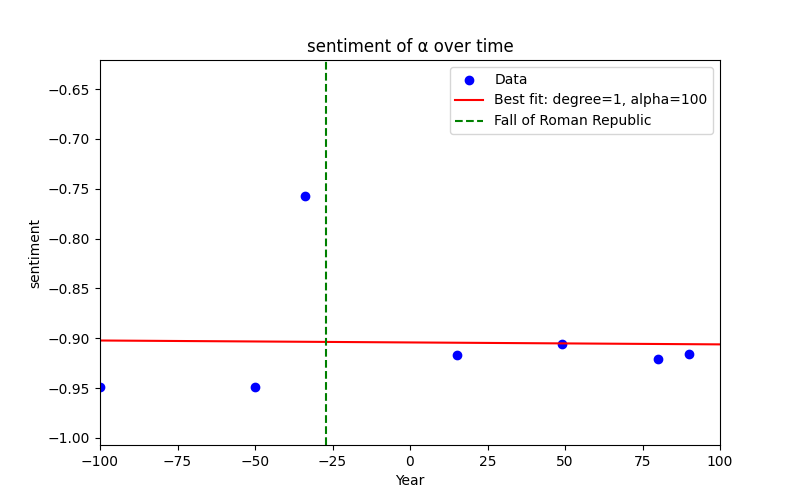
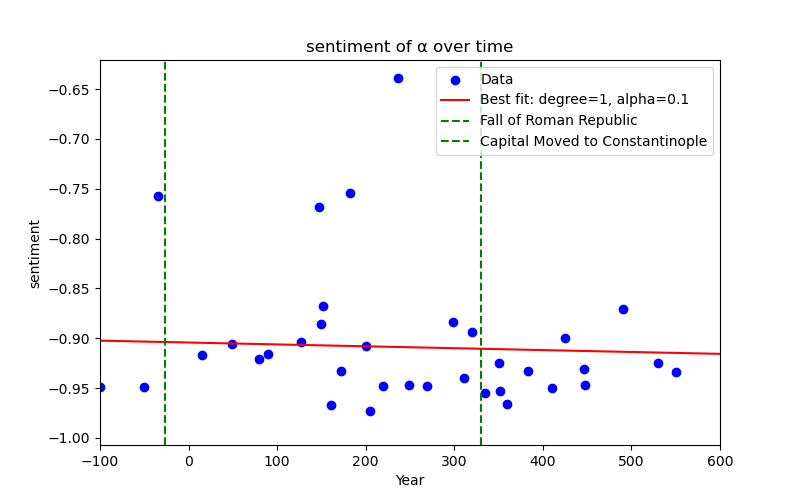
more outlier resilience

diff --git a/backend/PolyRegression.py b/backend/PolyRegression.py
@@ -3,7 +3,7 @@
 import numpy
 import matplotlib.pyplot as plt 
 from sklearn.preprocessing import PolynomialFeatures
-from sklearn.linear_model import Ridge
+from sklearn.linear_model import Lasso
 from sklearn.model_selection import GridSearchCV
 from sklearn.pipeline import Pipeline
 import pandas as pd
@@ -39,13 +39,13 @@ def line_best_fit(input, start_date, end_date, word, mode = "freqency"):
 
     pipeline = Pipeline([
         ('poly', PolynomialFeatures()),
-        ('ridge', Ridge())
+        ('lasso', Lasso())
     ])
 
     # Defining the parameter grid
     param_grid = {
         'poly__degree': degrees,
-        'ridge__alpha': alphas
+        'lasso__alpha': alphas
     }
 
     # Performing grid search with cross-validation
@@ -54,7 +54,7 @@ def line_best_fit(input, start_date, end_date, word, mode = "freqency"):
 
     # Extracting the best parameters
     best_degree = grid_search.best_params_['poly__degree']
-    best_alpha = grid_search.best_params_['ridge__alpha']
+    best_alpha = grid_search.best_params_['lasso__alpha']
 
     # Fitting the model with the best parameters
     best_model = grid_search.best_estimator_
